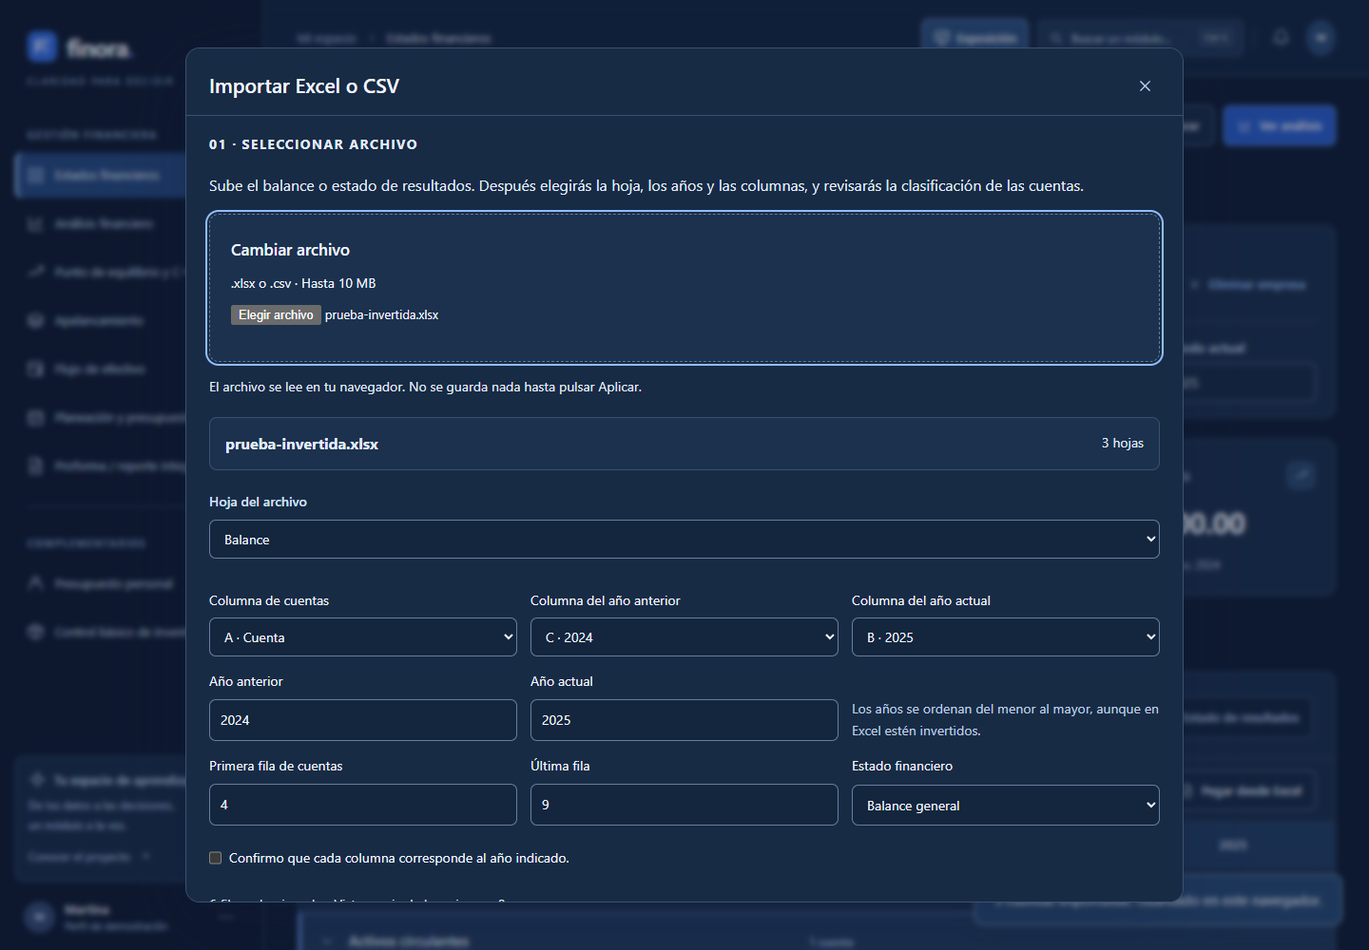
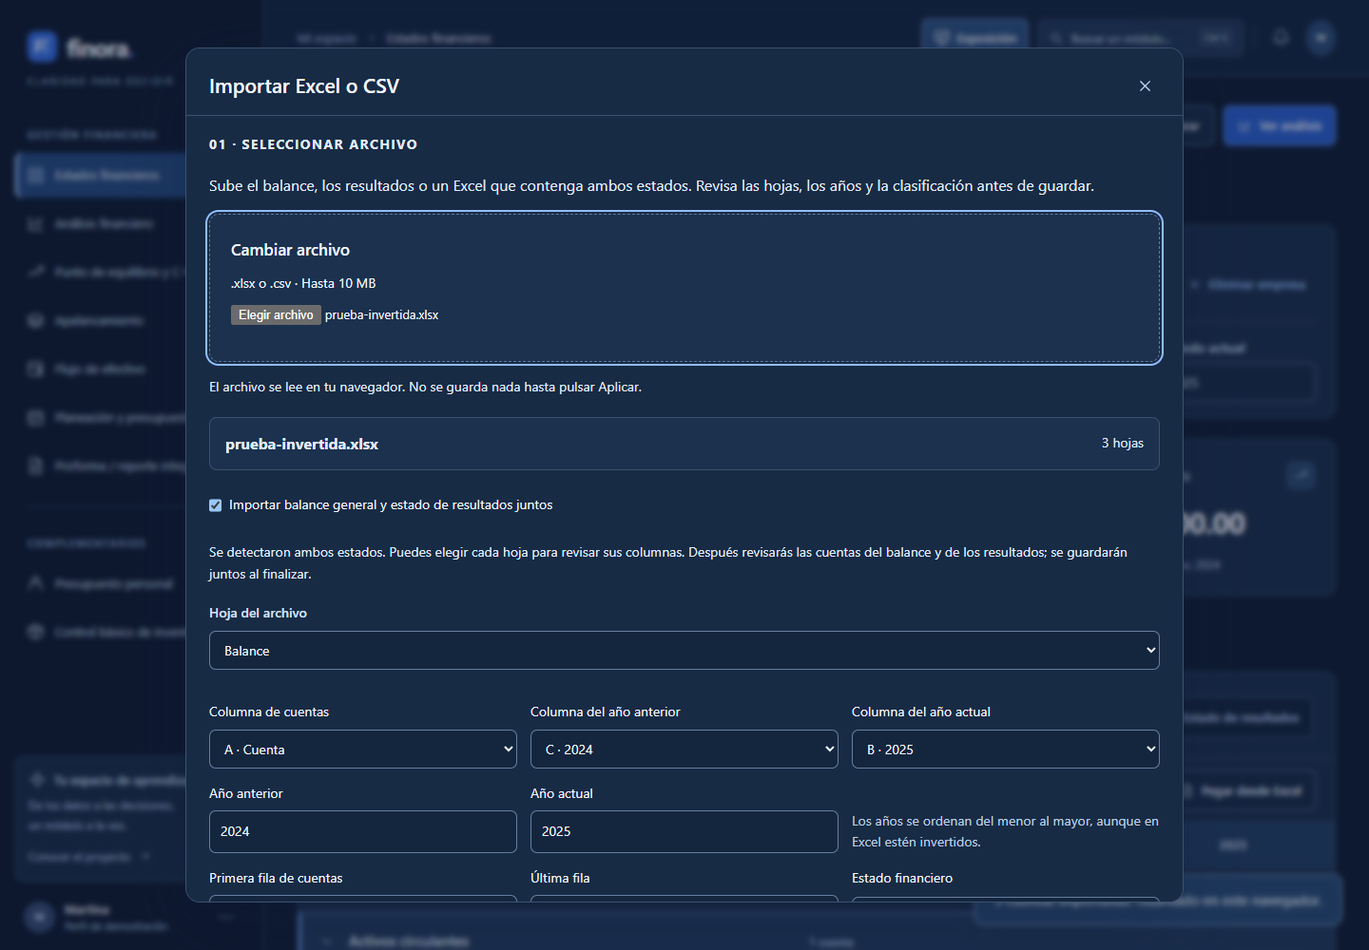
cambio 11

diff --git a/modulos/estados-financieros/file-import.js b/modulos/estados-financieros/file-import.js
@@ -20,7 +20,52 @@
     modal.classList.add('import-dialog');
     const container = modal.querySelector('#file-workspace'), abort = new AbortController();
     let file = null, sheet = null, workbook = null, worker = null, sequence = 0, generation = 0, sheetSequence = 0;
-    const pending = new Map();
+    const pending = new Map(), sheets = new Map(), mappings = new Map();
+    let detected = {balance:[],income:[]}, selectedName = null;
+    const nameKind = name => /resultados?|income|profit/i.test(name) ? 'income' : /balance|situaci[oó]n|position/i.test(name) ? 'balance' : null;
+    const excluded = name => /instrucciones|comprobaciones|instructions|checks/i.test(name);
+    const automatic = data => { const s=T.suggest(data.rows); return {...s,last:data.rows.length-1,confirmed:false}; };
+    async function readSheet(name) { if(!sheets.has(name)) sheets.set(name,worker ? await request('sheet',{name}) : T.sheetData(workbook,name,await library())); return sheets.get(name); }
+    function remember() { if(sheet && container.querySelector('#file-account')) mappings.set(selectedName,{...config(),kind:container.querySelector('#file-kind').value}); }
+    function transition(dialog, callback) { dialog.addEventListener('close',callback,{once:true}); dialog.close(); }
+    function jointReview(entries) {
+      const W=window.FinoraWorkbook;
+      const drafts=Object.fromEntries(entries.map(entry=>[entry.kind,P.analyze(entry.text,{kind:entry.kind,periods:original.periods,mode:'replace'})]));
+      const mismatch=W.pairErrors(drafts.balance,drafts.income); if(mismatch.length) throw new Error(mismatch.map(e=>e.message).join(' '));
+      const periods=drafts.balance.periods;
+      const differs=['previous','current'].some(side=>String(periods[side])!==String(original.periods[side]));
+      const hasData=['balance','income'].some(kind=>original[kind].some(row=>['previous','current'].some(side=>Number.isFinite(row.amounts?.[side]))));
+      const fresh=options.newCase || (differs && hasData);
+      const name=P.detectCompany(entries[0].text)||P.detectCompany(entries[1].text)||file.name.replace(/\.[^.]+$/,'');
+      const destination=fresh?C.blankCase(name):structuredClone(original);
+      if(!fresh && /ejemplo ficticio.*moneda/i.test(destination.name)) destination.name=name;
+      destination.periods={...periods};
+      if(fresh) {destination.currency=drafts.balance.units?.currency||drafts.income.units?.currency||original.currency;destination.scale=drafts.balance.units?.scale||drafts.income.units?.scale||'';}
+      const baseline=W.emptyStatements(destination);
+      for(const d of Object.values(drafts)) d.applyUnits=!!d.units;
+      const stale=()=>JSON.stringify(C.store.active())!==snapshot;
+      const show=kind=>{
+        const entry=entries.find(e=>e.kind===kind), first=kind==='balance';
+        window.FinoraImport.open({kind,text:entry.text,baseline,preparedDraft:drafts[kind],fileName:file.name+' · '+entry.name,
+          title:'Revisar balance y resultados',step:first?'1 de 2 · Balance general':'2 de 2 · Estado de resultados',
+          applyLabel:first?'Continuar a resultados':'Guardar balance y resultados',
+          note:'Se reemplazarán el balance y los resultados juntos en un solo documento. No se guarda nada hasta terminar las dos revisiones.',
+          periodNote:fresh?'Se guardarán ambos estados en un documento nuevo. Los documentos anteriores se conservan.':'',
+          isStale:stale,
+          validateDraft:d=> first?[]:W.pairErrors(drafts.balance,d),
+          onBack:(d,dialog)=>{drafts[kind]=d;transition(dialog,()=>first?open({...options,file,selectedName,savedMappings:[...mappings]}):show('balance'));},
+          onReview:(d,dialog)=>{
+            drafts[kind]=d;
+            if(first) {transition(dialog,()=>show('income'));return;}
+            const next=W.buildCase(destination,drafts.balance,drafts.income);
+            const saved=fresh?C.store.add(next):C.store.save(next);
+            dialog.close(); window.Finora.toast('Balance y resultados importados juntos.'+(saved?' Guardado en este navegador.':' No se pudo conservar el guardado al cerrar el navegador.'));
+          }
+        });
+      };
+      if(options.newCase) window.FinoraStart?.prepareImport();
+      transition(modal,()=>show('balance'));
+    }
     function stop() { worker?.terminate(); worker = null; pending.forEach(p => { clearTimeout(p.timer); p.reject(new Error('Lectura cancelada.')); }); pending.clear(); }
     modal.addEventListener('close', () => { abort.abort(); generation++; stop(); modal.classList.remove('import-dialog'); }, { once: true });
     function request(action, payload) {
@@ -38,7 +83,7 @@
     }
     function error(message) { container.querySelector('#file-error').textContent = message; }
     function initial() {
-      container.innerHTML = `<p class="import-kicker">01 · Seleccionar archivo</p><p>Sube el balance o estado de resultados. Después elegirás la hoja, los años y las columnas, y revisarás la clasificación de las cuentas.</p><label class="file-drop" for="financial-file"><span class="file-drop-title">Elegir archivo Excel o CSV</span><span>.xlsx o .csv · Hasta 10 MB</span><input type="file" id="financial-file" accept=".xlsx,.csv"></label><p class="import-help">El archivo se lee en tu navegador. No se guarda nada hasta pulsar Aplicar.</p><p id="file-error" class="import-error" role="alert"></p><div id="file-selection" hidden></div><div class="import-actions"><button type="button" class="button button-secondary" data-file-cancel>Cancelar</button></div>`;
+      container.innerHTML = `<p class="import-kicker">01 · Seleccionar archivo</p><p>Sube el balance, los resultados o un Excel que contenga ambos estados. Revisa las hojas, los años y la clasificación antes de guardar.</p><label class="file-drop" for="financial-file"><span class="file-drop-title">Elegir archivo Excel o CSV</span><span>.xlsx o .csv · Hasta 10 MB</span><input type="file" id="financial-file" accept=".xlsx,.csv"></label><p class="import-help">El archivo se lee en tu navegador. No se guarda nada hasta pulsar Aplicar.</p><p id="file-error" class="import-error" role="alert"></p><div id="file-selection" hidden></div><div class="import-actions"><button type="button" class="button button-secondary" data-file-cancel>Cancelar</button></div>`;
       container.querySelector('#financial-file').focus();
     }
     function config() {
@@ -54,9 +99,11 @@
     }
     function mapping() {
       const s = sheet.suggestion = T.suggest(sheet.rows);
+      const saved=mappings.get(selectedName); if(saved) Object.assign(s,saved);
       const choice = (col, selected) => `<option value="${col}"${col === selected ? ' selected' : ''}>${columnLetter(col)}${s.columns.find(x=>x.c===col) ? ' · '+s.columns.find(x=>x.c===col).year : ''}${col===s.account ? ' · Cuenta' : ''}</option>`;
       const columnSelect = (id, label, chosen) => `<label>${label}<select class="select" id="${id}">${s.available.map(col=>choice(col,chosen)).join('')}</select></label>`;
-      container.querySelector('#file-mapping').innerHTML = `<div class="file-columns">${columnSelect('file-account','Columna de cuentas',s.account)}${columnSelect('file-previous','Columna del año anterior',s.previous)}${columnSelect('file-current','Columna del año actual',s.current)}<label>Año anterior<input class="input" id="file-previous-year" inputmode="numeric" maxlength="4" value="${s.previousYear}"></label><label>Año actual<input class="input" id="file-current-year" inputmode="numeric" maxlength="4" value="${s.currentYear}"></label><div class="file-years-note">${s.columns.length > 2 ? 'Hay varios años. Elige los dos que quieres comparar.' : s.columns.length === 2 ? 'Los años se ordenan del menor al mayor, aunque en Excel estén invertidos.' : 'No se reconocieron los años. Indica a qué año pertenece cada columna.'}</div><label>Primera fila de cuentas<input class="input" type="number" id="file-first" min="1" max="${sheet.rows.length}" value="${s.first+1}"></label><label>Última fila<input class="input" type="number" id="file-last" min="1" max="${sheet.rows.length}" value="${sheet.rows.length}"></label><label>Estado financiero<select class="select" id="file-kind"><option value="">Detectar automáticamente</option><option value="balance"${options.kind==='balance'?' selected':''}>Balance general</option><option value="income"${options.kind==='income'?' selected':''}>Estado de resultados</option></select></label></div><label class="import-confirm file-confirm"><input type="checkbox" id="file-confirm-columns">Confirmo que cada columna corresponde al año indicado.</label><div id="file-preview"></div><div class="import-actions"><button type="button" class="button button-primary" id="file-review">Revisar cuentas</button></div>`;
+      container.querySelector('#file-mapping').innerHTML = `<div class="file-columns">${columnSelect('file-account','Columna de cuentas',s.account)}${columnSelect('file-previous','Columna del año anterior',s.previous)}${columnSelect('file-current','Columna del año actual',s.current)}<label>Año anterior<input class="input" id="file-previous-year" inputmode="numeric" maxlength="4" value="${s.previousYear}"></label><label>Año actual<input class="input" id="file-current-year" inputmode="numeric" maxlength="4" value="${s.currentYear}"></label><div class="file-years-note">${s.columns.length > 2 ? 'Hay varios años. Elige los dos que quieres comparar.' : s.columns.length === 2 ? 'Los años se ordenan del menor al mayor, aunque en Excel estén invertidos.' : 'No se reconocieron los años. Indica a qué año pertenece cada columna.'}</div><label>Primera fila de cuentas<input class="input" type="number" id="file-first" min="1" max="${sheet.rows.length}" value="${s.first+1}"></label><label>Última fila<input class="input" type="number" id="file-last" min="1" max="${sheet.rows.length}" value="${s.last+1}"></label><label>Estado financiero<select class="select" id="file-kind"><option value="">Detectar automáticamente</option><option value="balance"${(s.kind||nameKind(selectedName)||P.detectKind(sheet.rows.map(r=>r.join(' ')).join(' '))||options.kind)==='balance'?' selected':''}>Balance general</option><option value="income"${(s.kind||nameKind(selectedName)||P.detectKind(sheet.rows.map(r=>r.join(' ')).join(' '))||options.kind)==='income'?' selected':''}>Estado de resultados</option></select></label></div><label class="import-confirm file-confirm"><input type="checkbox" id="file-confirm-columns">Confirmo que cada columna corresponde al año indicado.</label><div id="file-preview"></div><div class="import-actions"><button type="button" class="button button-primary" id="file-review">Revisar cuentas</button></div>`;
+      container.querySelector('#file-confirm-columns').checked=!!s.confirmed;
       preview();
     }
     async function loadSheet(name) {
@@ -64,14 +111,14 @@
       container.querySelector('#file-mapping').innerHTML = '<p class="import-help">Leyendo hoja…</p>';
       error('');
       try {
-        const data = worker ? await request('sheet', { name }) : T.sheetData(workbook, name, await library());
+        const data = await readSheet(name);
         if (abort.signal.aborted || token !== sheetSequence) return;
         if (!data.rows.length || !data.rows.some(row=>row.some(v=>v!==null && v!==''))) throw new Error('Esta hoja está vacía. Elige otra hoja.');
-        sheet = data; mapping();
+        sheet = data; selectedName=name; mapping();
       } catch (e) { if (!abort.signal.aborted && token === sheetSequence) { sheet=null; container.querySelector('#file-mapping').innerHTML=''; error(e.message); } }
     }
     async function loadFile(next) {
-      const token = ++generation; ++sheetSequence; stop(); sheet = null; workbook = null; file = next;
+      const token = ++generation; ++sheetSequence; stop(); sheet = null; workbook = null; file = next; sheets.clear(); mappings.clear(); detected={balance:[],income:[]}; selectedName=null; for(const [name,choice] of options.savedMappings||[]) mappings.set(name,choice);
       container.querySelector('#file-selection').hidden = true; error('');
       if (!file) return;
       if (!/\.(xlsx|csv)$/i.test(file.name)) { error('Elige un archivo .xlsx o .csv.'); return; }
@@ -84,17 +131,24 @@
         if (launchWorker()) list = await request('read', { bytes: bytes.buffer, name: file.name });
         else { workbook = T.read(bytes, file.name, await library()); list = T.sheets(workbook); }
         if (abort.signal.aborted || token !== generation) return;
+        for(const item of list.filter(item=>!item.hidden&&!excluded(item.name))) {
+          try {
+            const data=await readSheet(item.name), kind=nameKind(item.name)||P.detectKind(data.rows.map(r=>r.join(' ')).join(' '));
+            if(kind && data.rows.length) detected[kind].push(item.name);
+          } catch(e) { /* Una hoja ajena o inválida no bloquea las demás; al elegirla se muestra su error. */ }
+          if(abort.signal.aborted||token!==generation) return;
+        }
         container.querySelector('.file-drop-title').textContent = 'Cambiar archivo';
         const selection = container.querySelector('#file-selection'); selection.hidden=false;
-        selection.innerHTML = `<div class="import-destination"><strong>${esc(file.name)}</strong><span>${list.length} ${list.length===1?'hoja':'hojas'}</span></div><label class="field-label" for="file-sheet">Hoja del archivo</label><select class="select file-sheet" id="file-sheet">${list.map(item=>`<option value="${esc(item.name)}">${esc(item.name)}${item.hidden?' (oculta)':''}</option>`).join('')}</select><div id="file-mapping"></div>`;
-        const preferred = list.find(item=>options.kind && (P.detectKind(item.name) || (/resultados?|income/i.test(item.name) ? 'income' : /balance/i.test(item.name) ? 'balance' : null))===options.kind && !item.hidden) || list.find(item=>!item.hidden) || list[0];
+        selection.innerHTML = `<div class="import-destination"><strong>${esc(file.name)}</strong><span>${list.length} ${list.length===1?'hoja':'hojas'}</span></div>${detected.balance.length&&detected.income.length ? '<label class="import-confirm file-confirm"><input type="checkbox" id="file-both" checked>Importar balance general y estado de resultados juntos</label><p class="import-help">Se detectaron ambos estados. Puedes elegir cada hoja para revisar sus columnas. Después revisarás las cuentas del balance y de los resultados; se guardarán juntos al finalizar.</p>' : ''}<label class="field-label" for="file-sheet">Hoja del archivo</label><select class="select file-sheet" id="file-sheet">${list.map(item=>`<option value="${esc(item.name)}">${esc(item.name)}${item.hidden?' (oculta)':''}</option>`).join('')}</select><div id="file-mapping"></div>`;
+        const preferred = list.find(item=>item.name===options.selectedName) || list.find(item=>options.kind && (P.detectKind(item.name) || (/resultados?|income/i.test(item.name) ? 'income' : /balance/i.test(item.name) ? 'balance' : null))===options.kind && !item.hidden) || list.find(item=>!item.hidden) || list[0];
         container.querySelector('#file-sheet').value=preferred.name; await loadSheet(preferred.name);
       } catch (e) { if (!abort.signal.aborted && token===generation) { container.querySelector('.file-drop-title').textContent='Elegir archivo Excel o CSV'; error(e.message || 'No se pudo leer el archivo. Si está protegido con contraseña, guarda una copia sin protección.'); } }
     }
     container.addEventListener('change', event => {
       const id=event.target.id;
       if (id==='financial-file') { loadFile(event.target.files[0]); return; }
-      if (id==='file-sheet') { loadSheet(event.target.value); return; }
+      if (id==='file-sheet') { remember(); loadSheet(event.target.value); return; }
       if (!sheet) return;
       if (id==='file-previous' || id==='file-current') {
         const side=id==='file-previous'?'previous':'current';
@@ -110,6 +164,16 @@
       if(!event.target.closest('#file-review') || !sheet) return;
       try {
         if(!options.newCase && JSON.stringify(C.store.active())!==snapshot) throw new Error('Los datos actuales cambiaron. Cierra esta ventana y vuelve a importar el archivo.');
+        remember();
+        if(container.querySelector('#file-both')?.checked) {
+          const entries=['balance','income'].map(kind=>{
+            const candidates=detected[kind], name=candidates.includes(selectedName)?selectedName:candidates[0];
+            const data=sheets.get(name), choice=mappings.get(name)||automatic(data);
+            if(choice.kind && choice.kind!==kind) throw new Error('La hoja '+name+' debe clasificarse como '+(kind==='balance'?'balance general':'estado de resultados')+'.');
+            try {return {kind,name,text:T.extract(data,choice).text};} catch(e) {throw new Error(name+': '+e.message+' Elige esta hoja para revisar sus columnas.');}
+          });
+          jointReview(entries);return;
+        }
         const result=T.extract(sheet,config());
         const kind=container.querySelector('#file-kind').value || P.detectKind(result.text);
         if(!kind) throw new Error('Elige si esta hoja contiene un balance general o un estado de resultados.');
@@ -121,6 +185,7 @@
       } catch(e) { error(e.message); }
     }, {signal:abort.signal});
     initial();
+    if(options.file) loadFile(options.file);
   }
   window.FinoraFiles={open};
   document.getElementById('upload-excel')?.addEventListener('click',()=>open({kind:document.querySelector('[data-statement][aria-selected="true"]')?.dataset.statement||'balance'}));

diff --git a/modulos/estados-financieros/import.js b/modulos/estados-financieros/import.js
@@ -26,11 +26,11 @@
     const workspace = modal.querySelector('#import-workspace');
     const abort = new AbortController();
     modal.addEventListener('close', () => { abort.abort(); modal.classList.remove('import-dialog'); }, { once: true });
-    const isStale = () => !fresh && JSON.stringify(C.store.active()) !== snapshot;
+    const isStale = () => options.isStale ? options.isStale() : !fresh && JSON.stringify(C.store.active()) !== snapshot;
 
     // Revisar un documento de otros años prepara una copia nueva, sin cambiar el guardado actual.
     function resolvePeriods() {
-      if (!draft || fresh || mode !== 'replace') return;
+      if (options.onReview || !draft || fresh || mode !== 'replace') return;
       const p = draft.periods;
       const valid = /^\d{4}$/.test(String(p.previous)) && /^\d{4}$/.test(String(p.current)) && +p.previous >= 1900 && +p.current <= 2100 && +p.previous < +p.current;
       const differs = SIDES.some(side => String(p[side]) !== String(baseline.periods[side]));
@@ -98,8 +98,17 @@
       workspace.querySelector('.import-apply-note').textContent = fresh ? 'Al aplicar, se guardará un documento nuevo. Los documentos anteriores se conservan.' : mode === 'append' ? 'Se agregarán las cuentas incluidas al estado actual.' : 'Al aplicar, se reemplazarán las cuentas del ' + label + '. El otro estado y los datos actuales se conservan.';
       workspace.querySelector('[data-import-action="apply"]').textContent = fresh ? 'Aplicar y guardar documento' : mode === 'append' ? 'Agregar cuentas revisadas' : 'Aplicar cuentas revisadas';
       if (fresh) modal.querySelector('#dialog-title').textContent = 'Nuevo documento financiero';
+      if (options.onReview) {
+        modal.querySelector('#dialog-title').textContent = options.title;
+        workspace.querySelector('.import-kicker').textContent = options.step;
+        workspace.querySelector('.import-apply-note').textContent = options.note;
+        workspace.querySelector('[data-import-action="apply"]').textContent = options.applyLabel;
+        workspace.querySelector('[data-import-action="back"]').textContent = options.onBack ? 'Volver al balance' : 'Volver a las hojas';
+        notice.hidden = !options.periodNote;
+        notice.textContent = options.periodNote || '';
+      }
       const validation = P.validate(draft, baseline);
-      const errors = [...validation.errors];
+      const errors = [...validation.errors, ...(options.validateDraft?.(draft) || [])];
       if (isStale()) errors.push({ code: 'stale', message: 'La empresa cambió mientras revisabas. Cierra esta ventana y vuelve a pegar para trabajar con los datos actuales.' });
       workspace.querySelectorAll('[data-import-heading]').forEach(el => { el.textContent = draft.periods[el.dataset.importHeading]; });
       workspace.querySelectorAll('[data-import-row]').forEach(tr => {
@@ -187,11 +196,16 @@
         modal.close(); return;
       }
       if (action === 'cancel') modal.close();
-      if (action === 'back') sourceView();
+      if (action === 'back') { if (options.onBack) options.onBack(draft, modal); else sourceView(); }
       if (action === 'analyze') analyze();
       if (action === 'apply') {
         if (isStale()) { refresh(); return; }
         try {
+          if (options.onReview) {
+            const validation=P.validate(draft,baseline), extra=options.validateDraft?.(draft)||[];
+            if(!validation.valid||extra.length) { refresh(); return; }
+            options.onReview(draft,modal); return;
+          }
           const next = P.buildCase(baseline, draft);
           const saved = fresh ? C.store.add(next) : C.store.save(next);
           const count = draft.rows.filter(row => row.include !== false).length;

diff --git a/assets/js/workbook-import.js b/assets/js/workbook-import.js
@@ -1,0 +1,22 @@
+/* Dos estados revisados se construyen juntos, sin escribir en el almacén. */
+(function(root) {
+  'use strict';
+  const node = typeof module === 'object' && module.exports;
+  const P = node ? require('./paste-import.js') : root.FinoraPaste;
+  const clone = value => JSON.parse(JSON.stringify(value));
+  function emptyStatements(model) { const next=clone(model); next.balance=[]; next.income=[]; return next; }
+  function pairErrors(balance,income) {
+    const errors=[];
+    if (['previous','current'].some(side=>String(balance.periods[side])!==String(income.periods[side]))) errors.push({code:'workbook-periods',message:'El balance y los resultados deben corresponder a los mismos años. Revisa los años de ambas hojas.'});
+    for (const key of ['currency','scale']) if(balance.units?.[key] && income.units?.[key] && balance.units[key]!==income.units[key]) errors.push({code:'workbook-units',message:'Las dos hojas declaran distintas monedas o escalas. Corrige el archivo antes de guardarlas juntas.'});
+    return errors;
+  }
+  function buildCase(model,balance,income) {
+    if(balance.kind!=='balance'||income.kind!=='income'||balance.mode==='append'||income.mode==='append') throw new Error('Selecciona un balance y un estado de resultados para reemplazar ambos estados.');
+    const errors=pairErrors(balance,income); if(errors.length) throw new Error(errors.map(e=>e.message).join('\n'));
+    let next=emptyStatements(model);
+    next=P.buildCase(next,balance); next=P.buildCase(next,income); return next;
+  }
+  const api={emptyStatements,pairErrors,buildCase};
+  if(node) module.exports=api; else root.FinoraWorkbook=api;
+})(typeof globalThis!=='undefined'?globalThis:this);

diff --git a/assets/js/paste-import.js b/assets/js/paste-import.js
@@ -265,7 +265,7 @@
     const skip = /^(balance|estado|estados|cuenta|concepto|cifras|valores|expresado|al \d|del? \d|periodo|ejercicio|activos?|pasivos?|capital|ingresos|ventas)\b|\b(miles|millones)\b|^[a-z]{0,3}\$/;
     for (const raw of String(text ?? '').split(/\r?\n/).slice(0, 6)) {
       const line = raw.replace(/\t+/g, ' ').trim();
-      if (!line || /\d/.test(line) || line.length > 80 || skip.test(norm(line))) continue;
+      if (!line || /\d/.test(line) || line.length > 80 || skip.test(norm(line)) || /\b(moneda|cordobas|dolares|ejemplo ficticio|instrucciones|comprobaciones)\b/.test(norm(line))) continue;
       return line;
     }
     return null;
@@ -273,4 +273,3 @@
   const api = { analyze, validate, buildCase, parseAmount, detectKind, detectCompany, BLOCKS, CATEGORIES };
   if (node) module.exports = api; else root.FinoraPaste = api;
 })(typeof globalThis !== 'undefined' ? globalThis : this);
-

diff --git a/modulos/estados-financieros/index.html b/modulos/estados-financieros/index.html
@@ -19,6 +19,7 @@
   <script defer src="../../assets/js/case-bar.js"></script>
   <script defer src="../../assets/js/table-import.js"></script>
   <script defer src="../../assets/js/paste-import.js"></script>
+  <script defer src="../../assets/js/workbook-import.js"></script>
   <script defer src="../../assets/js/file-table.js"></script>
   <script defer src="import.js"></script>
   <script defer src="file-import.js"></script>

diff --git a/tests/README.md b/tests/README.md
@@ -16,3 +16,5 @@ El navegador de pruebas usa un contexto nuevo y aislado; no toca los casos del n
 La carga de Excel y CSV tiene pruebas en `tests/file-browser.cjs`. Se ejecuta con las mismas variables de Playwright y navegador. Comprueba archivos .xlsx reales, hojas, fechas y años invertidos, CSV con varios años, asignación manual, revisión antes de guardar, cancelación, recuperación de errores y ausencia de conexiones externas. El lector SheetJS y su licencia están incluidos en `assets/vendor/sheetjs`.
 
 La regresión del balance 2025-2026 está en `tests/attached-browser.cjs`. Por defecto arma un libro a partir de las fixtures; para probar un archivo real, define `FINORA_TEST_WORKBOOK` con su ruta. Comprueba Patrimonio, subtotales, diagnóstico de diferencias y preparación automática de un documento nuevo cuando los años no coinciden, conservando el documento anterior y las correcciones hechas en revisión.
+
+La carga conjunta se verifica con `node --test tests/workbook-import.test.cjs` y `node tests/joint-browser.cjs`. Este último usa `FINORA_TEST_WORKBOOK` si está definido; en otro caso construye un libro desde las mismas cuentas de prueba. Comprueba ambas hojas, cancelación sin guardado parcial, revisión hacia atrás, períodos coherentes, cuentas desconocidas, datos cambiados y columnas invertidas. Las pruebas anteriores mantienen la importación de una sola hoja desmarcando la carga conjunta.
